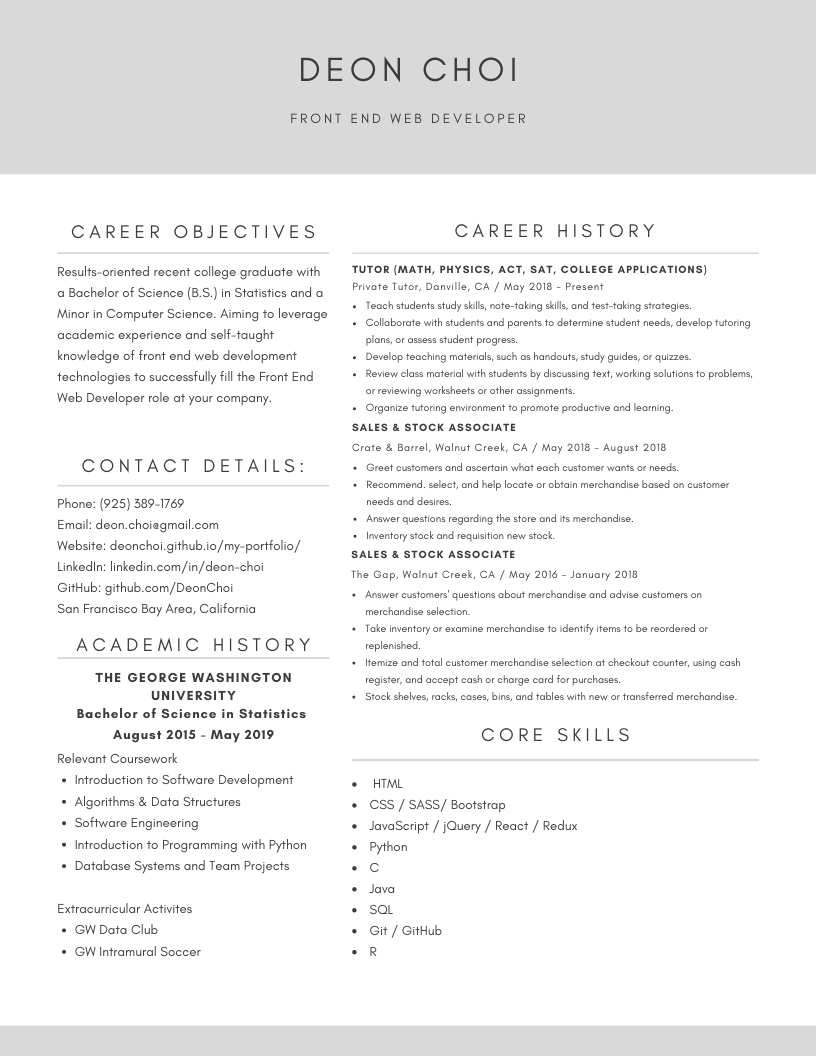
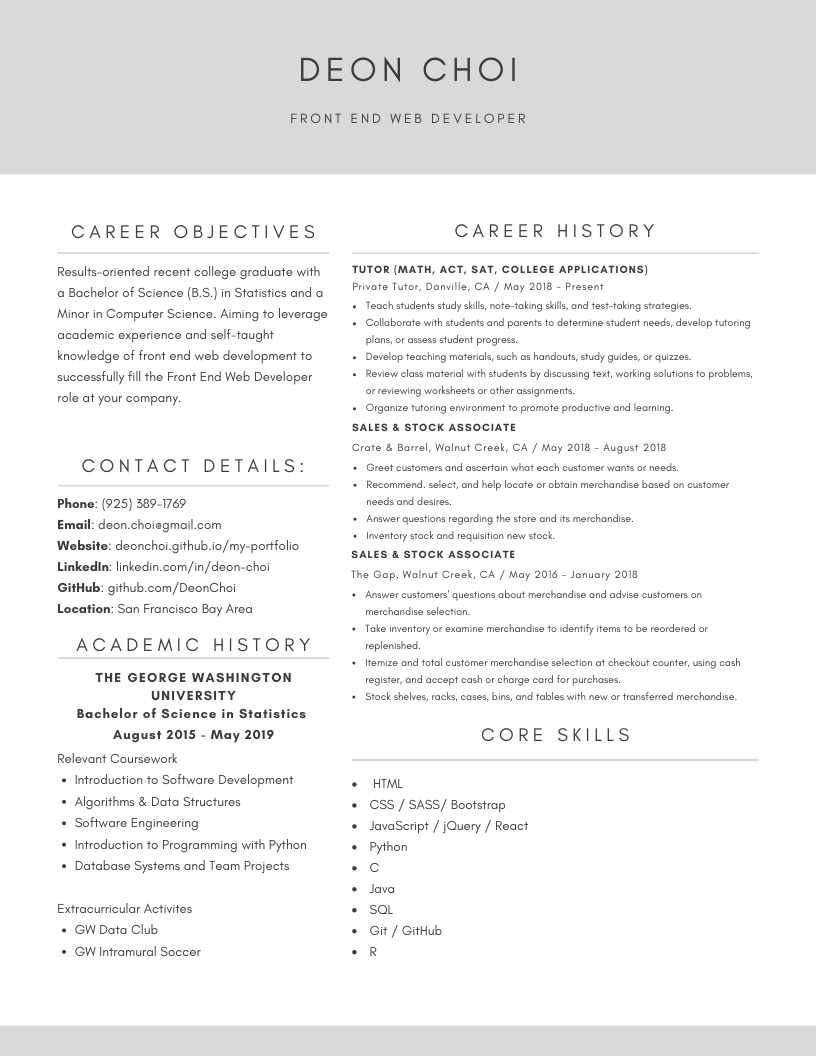
13th Commit
Updated Resume, removed unnecessary span elements, and unused CSS selectors in the App.css file.

Changed region(s): [[0.0613, 0.4688, 0.3676, 0.5938], [0.0613, 0.3438, 0.3676, 0.4062], [0.5515, 0.25, 0.8578, 0.2812]]

diff --git a/src/components/About.js b/src/components/About.js
@@ -21,13 +21,11 @@ class About extends React.Component {
                     <p className='about-description text-justify'>
                         Hi, my name is Deon Choi. I graduated from <a className='about-link' href='https://www.gwu.edu/' target='_blank' rel="noopener noreferrer">The George Washington University</a> in May 2019 with a Bachelor of Science in Statistics & a Minor in Computer Science. 
                         Shortly after graduation, I decided to dive into the world of web development.
-                        It started with a few books on <a className='about-link' href='https://www.amazon.com/Web-Design-HTML-JavaScript-jQuery/dp/1118907442/ref=pd_sbs_14_t_0/135-2789733-7969725?_encoding=UTF8&pd_rd_i=1118907442&pd_rd_r=0584ec14-45bb-46ba-a924-de3fcc4a45fa&pd_rd_w=bfKxr&pd_rd_wg=guwqh&pf_rd_p=5cfcfe89-300f-47d2-b1ad-a4e27203a02a&pf_rd_r=KZ5DTE2WNT09VGER4463&psc=1&refRID=KZ5DTE2WNT09VGER4463' target='_blank' rel="noopener noreferrer">HTML, CSS, JavaScript and jQuery</a> and eventually I made my way over to <span>Bootstrap</span>, <span>React</span>, and <span>Redux</span>.
+                        It started with a few books on <a className='about-link' href='https://www.amazon.com/Web-Design-HTML-JavaScript-jQuery/dp/1118907442/ref=pd_sbs_14_t_0/135-2789733-7969725?_encoding=UTF8&pd_rd_i=1118907442&pd_rd_r=0584ec14-45bb-46ba-a924-de3fcc4a45fa&pd_rd_w=bfKxr&pd_rd_wg=guwqh&pf_rd_p=5cfcfe89-300f-47d2-b1ad-a4e27203a02a&pf_rd_r=KZ5DTE2WNT09VGER4463&psc=1&refRID=KZ5DTE2WNT09VGER4463' target='_blank' rel="noopener noreferrer">HTML, CSS, JavaScript and jQuery</a> and eventually I made my way over to Bootstrap, React, and Redux.
                         <br></br>
-                        I currently write most of my code using React paired with Bootstrap. In fact, this website was made almost entirely using <a className='about-link' href='https://react-bootstrap.github.io/' target='_blank' rel="noopener noreferrer">React-Bootstrap</a>.
+                        I currently write most of my code using React and Bootstrap. In fact, this website was made almost entirely using <a className='about-link' href='https://react-bootstrap.github.io/' target='_blank' rel="noopener noreferrer">React-Bootstrap</a>. As a developer, I still have an enormous amount to learn, but I'm incredibly excited to continue down this path into becoming an excellent developer.
                         <br></br>
-                        Aside from web development, I enjoy fitness, food, watching, and playing sports. I'm a Lakers, Rams, and die-hard Dodgers fan - I know it's been a disappointing decade, please don't remind me.
-                        <br></br>
-                        As a developer, I still have an enormous amount to learn, but I'm incredibly excited to continue down this path into becoming an excellent developer.
+                        Aside from web development, I enjoy fitness, food, watching, and playing sports. I'm a Lakers, Rams, and die-hard Dodgers fan - I know it's been a disappointing decade, please don't remind me. I also love watching soccer!
                     </p>
                     <Row className='d-flex justify-content-around'>
                         <img className='skill-icon' src={HTMLIcon} alt='HTML Icon'/>

diff --git a/src/App.css b/src/App.css
@@ -45,8 +45,6 @@
   right: 3%;
   bottom: 3%;
 }
-.project-container {
-}
 .contact-container {
   margin: 0!important;
   padding: 5%!important;
@@ -138,11 +136,6 @@
 .resume-img {
   height: 100%;
   width: 100%;
-}
-
-/* general elements, not necessarily component specific */
-span{
-  font-weight: bold;
 }
 
 /* media queries */
